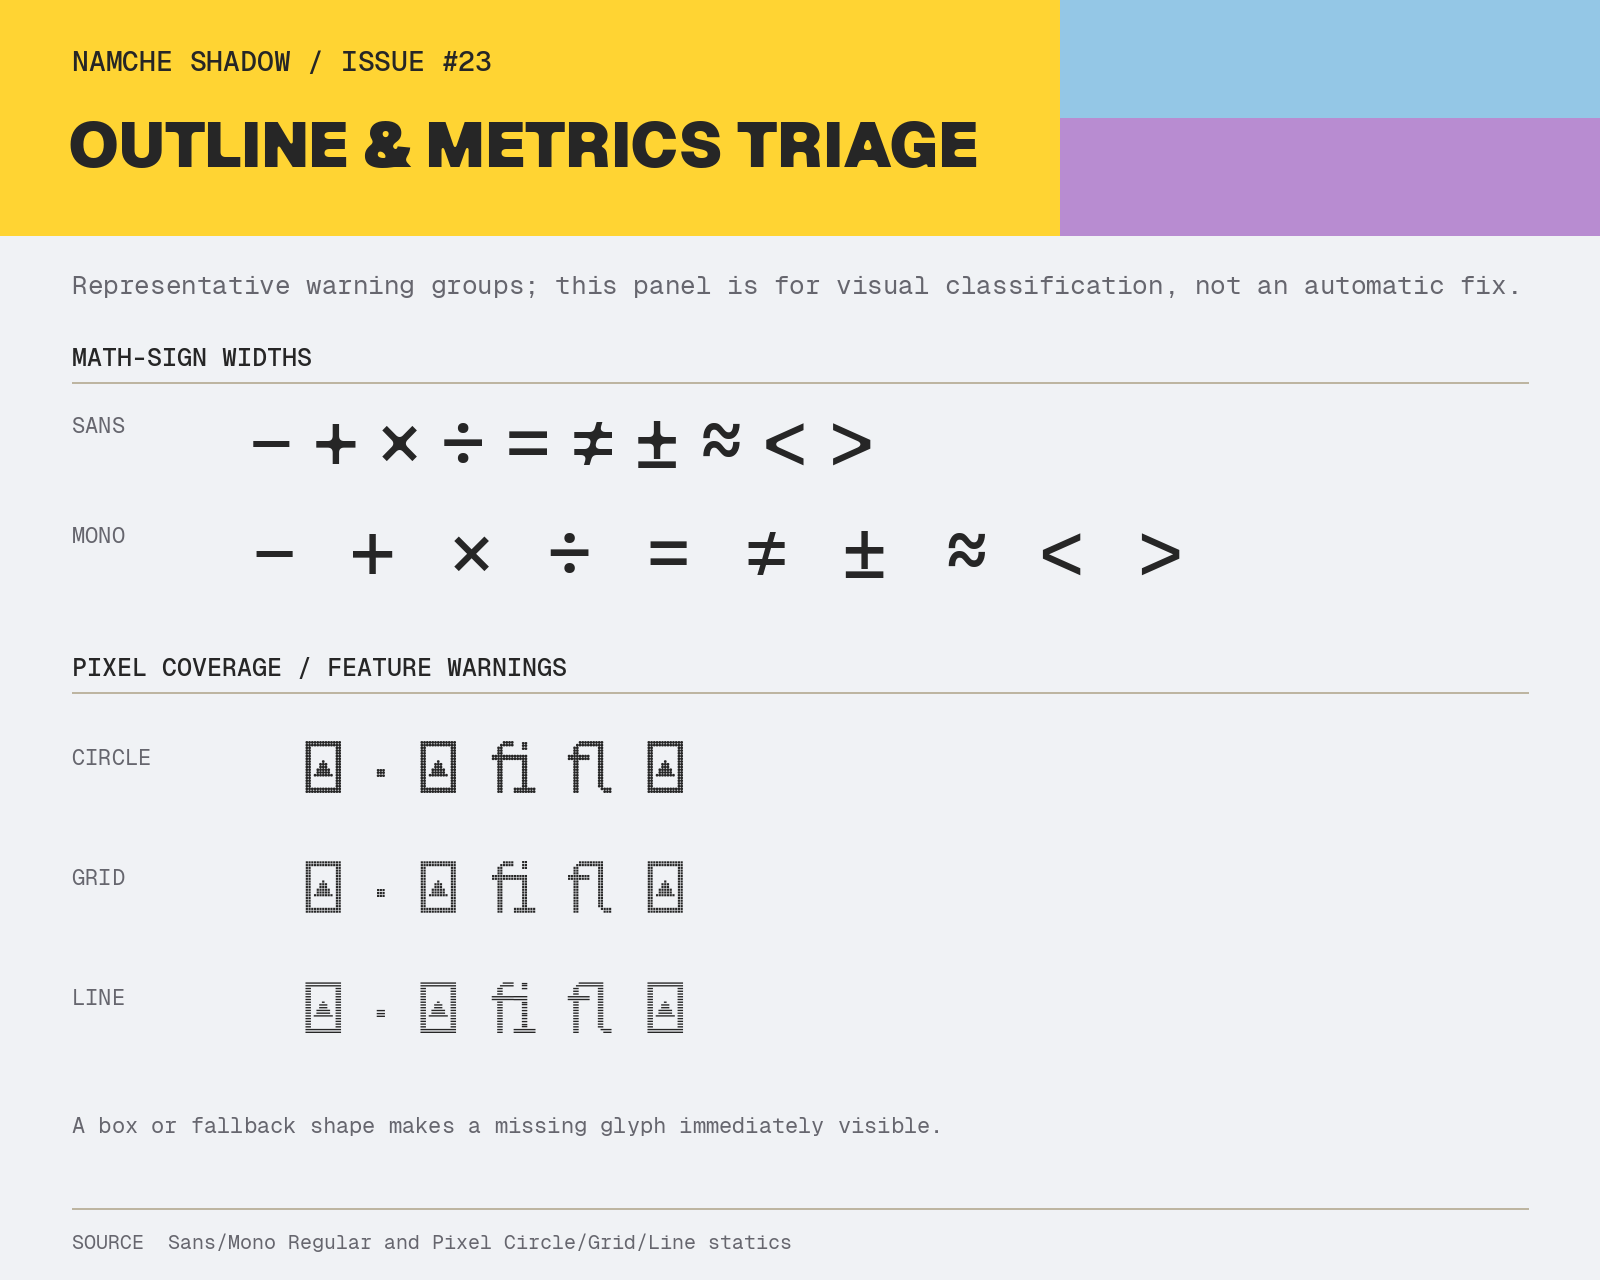
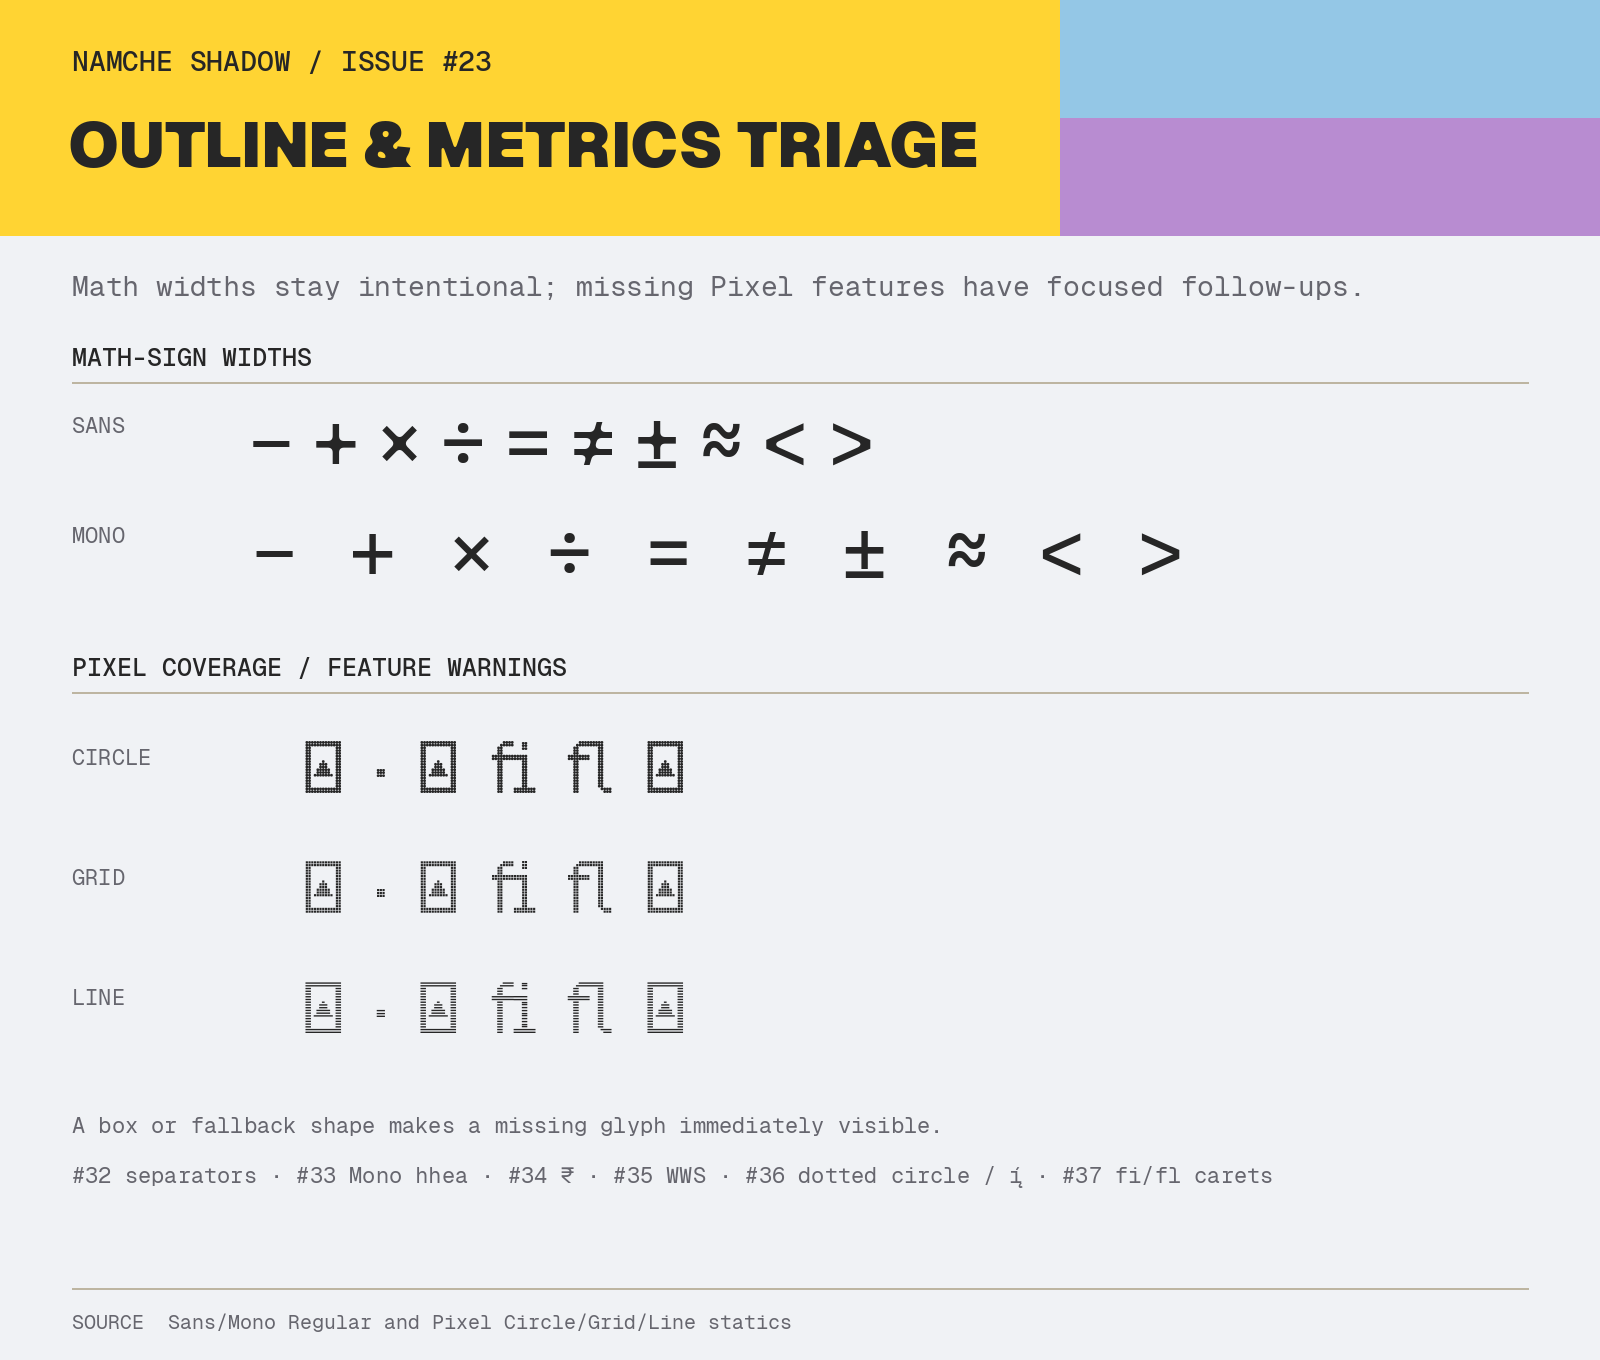
docs: classify Fontspector maintenance warnings (#38)
* docs: classify Fontspector maintenance warnings

* docs: clarify long glyph name baseline

---------

diff --git a/scripts/render_issue_proofs.py b/scripts/render_issue_proofs.py
@@ -262,8 +262,8 @@ def render_issue_23() -> None:
     image, draw = canvas(
         23,
         "OUTLINE & METRICS TRIAGE",
-        "Representative warning groups; this panel is for visual classification, not an automatic fix.",
-        1280,
+        "Math widths stay intentional; missing Pixel features have focused follow-ups.",
+        1360,
     )
     label = font(MONO_DIR / "NamcheShadowMono-Regular.ttf", 22)
     section(draw, 340, "Math-sign widths")
@@ -281,9 +281,62 @@ def render_issue_23() -> None:
         y = 720 + index * 120
         draw.text((72, y + 22), style, font=label, fill=MUTED)
         draw.text((300, y), "◌ · ₹ ﬁ ﬂ ‐", font=font(path, 72), fill=TEXT)
-    draw.text((72, 1110), "A box or fallback shape makes a missing glyph immediately visible.", font=label, fill=MUTED)
+    draw.text(
+        (72, 1110),
+        "A box or fallback shape makes a missing glyph immediately visible.",
+        font=label,
+        fill=MUTED,
+    )
+    followups = (
+        "#32 separators · #33 Mono hhea · #34 ₹ · #35 WWS · "
+        "#36 dotted circle / į́ · #37 fi/fl carets"
+    )
+    draw.text(
+        (72, 1160),
+        followups,
+        font=fit(MONO_DIR / "NamcheShadowMono-Regular.ttf", followups, 1456, 22),
+        fill=MUTED,
+    )
     footer(draw, image.height, "Sans/Mono Regular and Pixel Circle/Grid/Line statics")
     image.save(OUTPUT / "issue-23-outline-metrics.png", optimize=True)
+
+
+def render_issue_23_outlines() -> None:
+    image, draw = canvas(
+        23,
+        "OUTLINE HEURISTICS",
+        "Characters flagged by alignment, jaggy, short-segment, contour, or overlap checks.",
+        1900,
+    )
+    label = font(MONO_DIR / "NamcheShadowMono-Regular.ttf", 21)
+
+    def specimen_row(
+        y: int, style: str, sample: str, path: Path, size: int = 78
+    ) -> None:
+        draw.text((72, y + 30), style, font=label, fill=MUTED)
+        draw.text((280, y), sample, font=fit(path, sample, 1240, size), fill=TEXT)
+
+    section(draw, 340, "Sans · rounded/source heuristics")
+    specimen_row(405, "THIN", "M a Ư Ẫ ฿ в Ç", SANS_DIR / "NamcheShadowSans-Thin.ttf")
+    specimen_row(535, "REGULAR", "M a Ư Ẫ ฿ в Ç", SANS_DIR / "NamcheShadowSans-Regular.ttf")
+    specimen_row(665, "BLACK", "M a Ư Ẫ ฿ в Ç", SANS_DIR / "NamcheShadowSans-Black.ttf")
+
+    section(draw, 820, "Mono · inherited outline heuristics")
+    specimen_row(885, "THIN", "M W G Ư Ŋ f m", MONO_DIR / "NamcheShadowMono-Thin.ttf")
+    specimen_row(1015, "REGULAR", "M W G Ư Ŋ f m", MONO_DIR / "NamcheShadowMono-Regular.ttf")
+    specimen_row(1145, "BLACK", "M W G Ư Ŋ f m", MONO_DIR / "NamcheShadowMono-Black.ttf")
+
+    section(draw, 1300, "Pixel · grid and component heuristics")
+    specimen_row(1365, "CIRCLE", "ą ő ű æ ﬁ ﬂ", PIXEL_DIR / "NamcheShadowPixel-Circle.ttf", 70)
+    specimen_row(1495, "GRID", "ą ő ű æ ﬁ ﬂ", PIXEL_DIR / "NamcheShadowPixel-Grid.ttf", 70)
+    specimen_row(1625, "LINE", "ą ő ű æ ﬁ ﬂ", PIXEL_DIR / "NamcheShadowPixel-Line.ttf", 70)
+
+    footer(
+        draw,
+        image.height,
+        "Representative flagged glyphs · visual baseline only; no bulk outline changes",
+    )
+    image.save(OUTPUT / "issue-23-outline-heuristics.png", optimize=True)
 
 
 def render_issue_24() -> None:
@@ -349,6 +402,7 @@ def main() -> None:
     render_issue_21()
     render_issue_22()
     render_issue_23()
+    render_issue_23_outlines()
     render_issue_24()
     render_issue_25()
     for path in sorted(OUTPUT.glob("issue-*.png")):

diff --git a/documentation/FONTSPECTOR.md b/documentation/FONTSPECTOR.md
@@ -69,6 +69,29 @@ guarded distance changes.
 - Design-consistency warnings such as math-sign widths and ligature carets need
   a designer/type-engineer decision before changing outlines or metrics.
 
+## Reviewed maintenance triage
+
+Issue #23 reviewed the remaining outline, metric, reachability, and Pixel
+feature warnings against the rendered release fonts. The corresponding
+characters are maintained in `documentation/issues/issue-23-outline-metrics.png`
+and `documentation/issues/issue-23-outline-heuristics.png`.
+
+| Warning group | Classification | Decision |
+| --- | --- | --- |
+| `alignment_miss`, `colinear_vectors`, `jaggy_segments`, `short_segments`, `contour_count` | Intentional design/source heuristics | The rendered Sans, Mono, and Pixel examples show the expected rounded overshoots, interpolation/source points, and Pixel grid geometry. Do not bulk-edit these coordinates. A newly reported or visibly wrong glyph still requires an issue and Michael's review. |
+| `overlapping_path_segments` | Intentional implementation artifact | Current findings are coincident component edges or zero-length segments produced by source composition and VF compatibility. They have no demonstrated rendering defect; retain them unless a focused source review proves otherwise. |
+| `math_signs_width` | Intentional design choice | Sans is proportional, Mono already uses its monospaced advance, and Pixel keeps the inherited shape-specific widths. Do not normalize spacing merely to match the most common glyph width. |
+| Mono `opentype/monospace` | Binary optimization | Compact the redundant `hhea.numberOfHMetrics` representation without changing advances or sidebearings in [#33](https://github.com/NamcheAI/namche-shadow-font/issues/33). |
+| `opentype/fsselection_wws` | Metadata defect | Make the maintained WWS metadata spec-correct across all three families in [#35](https://github.com/NamcheAI/namche-shadow-font/issues/35). |
+| Pixel `separator_glyphs` | Export feature defect | The source already has inkless U+2028/U+2029 glyphs; preserve them in release exports in [#32](https://github.com/NamcheAI/namche-shadow-font/issues/32). |
+| Pixel `rupee` | Missing glyph feature | Design and ship **₹** for all five Pixel styles in [#34](https://github.com/NamcheAI/namche-shadow-font/issues/34). |
+| Pixel `dotted_circle`, required `soft_dotted` | Shaping/design feature | Add **◌** and correct **į́ į̌ į̀ į̃ į̄ į̂** behavior in [#36](https://github.com/NamcheAI/namche-shadow-font/issues/36). |
+| Pixel `ligature_carets` | Export feature defect | Preserve the existing source caret anchors for **ﬁ ﬂ** in GDEF in [#37](https://github.com/NamcheAI/namche-shadow-font/issues/37). |
+| `valid_glyphnames` | Intentional internal naming choice | The release warnings are limited to `asciitilde_asciitilde_greater.liga`, `hyphen_hyphen_hyphen_greater.liga`, `numbersign_numbersign_numbersign.liga`, and `periodcentered.loclCAT.case.ss08`. They are inherited internal GSUB ligature/alternate names. Long descriptive source names for encoded box/block characters are compiled to production `uniXXXX` names and are not part of this warning baseline. Renaming the reported internal names would churn source/GSUB references for a legacy recommendation, with no public API benefit. |
+| `unreachable_glyphs`, `unreachable_subsetting` | Source/distributor profile choice | Unencoded working/component glyphs remain available to the source, while this npm/direct-download project has no Google Fonts `METADATA.pb` subset-serving contract. Treat count increases as regressions, but do not remove the baseline solely for this profile. |
+| Pixel `soft_hyphen` | Intentional compatibility choice | Retain encoded U+00AD; its presence conflicts with current Google Fonts policy but is valid for the direct font distribution. |
+| Sans VF `suspicious_sidebearings` | Mark-metric heuristic | The reported glyph is the combining mark `uni03020301`; its right-sidebearing variation is not user-facing spacing. Reopen only if shaping proof exposes a mark-positioning defect. |
+
 For Sans, the release-specific acceptance checks are stronger than the generic
 profile: every static weight must contain the complete seven-tier RoundCorner
 result, `H` must retain the expected four rounded inner segments, the five
